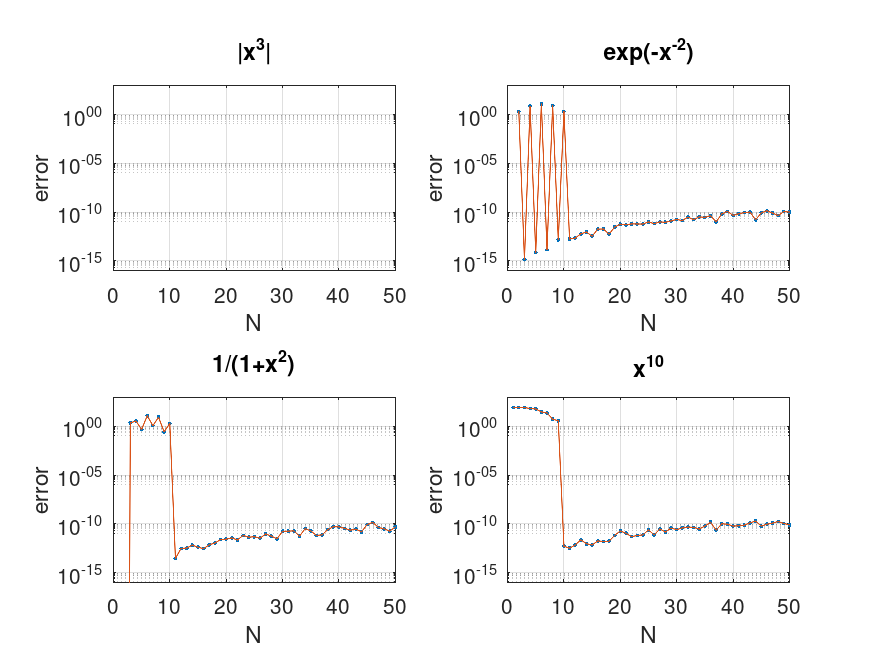
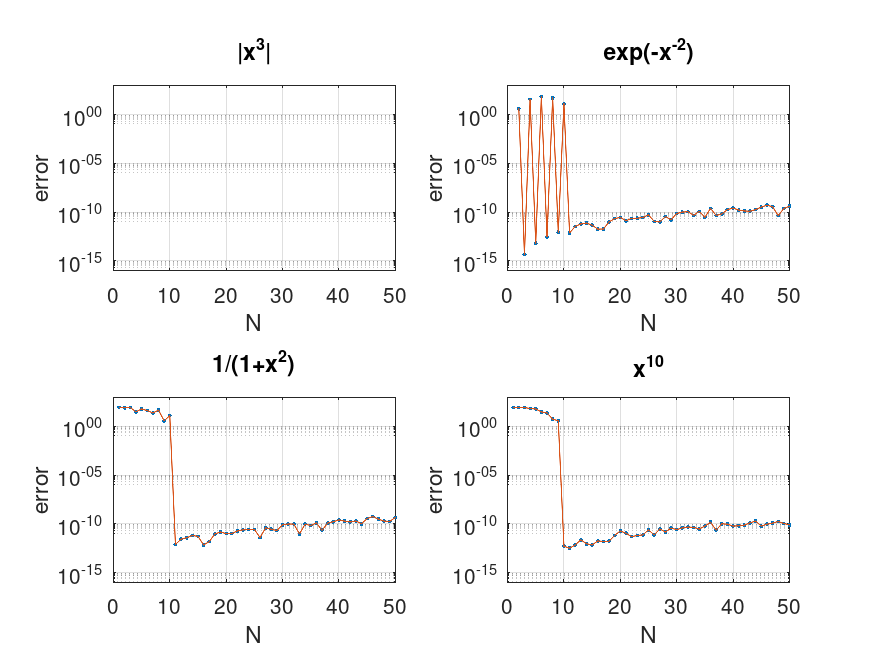
MATH6680: Fixed endpoints on `chebfft2`.

diff --git a/2023/spring/MATH6680_ScientificComputationII/Homework2/problem_7.m b/2023/spring/MATH6680_ScientificComputationII/Homework2/problem_7.m
@@ -9,11 +9,11 @@ for N = 1:Nmax;
   % v = @(x) abs(x).^3; % 3rd deriv in BV
   % [xx, vv, w2] = chebfft2(v(chebx));
   % E(1,N) = norm(w2 - D2 * v(chebx),inf);
-  
+
   % v = @(x) exp(-x.^(-2)); % C-infinity
   % [xx, vv, w2] = chebfft2(v(chebx));
   % E(2,N) = norm(w2 - D2 * v(chebx),inf);
-  
+
   % v = @(x) 1./(1+x.^2); % analytic in [-1,1]
   % [xx, vv, w2] = chebfft2(v(chebx));
   % E(3,N) = norm(w2 - D2 * v(chebx),inf);
@@ -22,8 +22,8 @@ for N = 1:Nmax;
   [xx, vv, w2] = chebfft2(v(chebx));
   vpp = 90*xx.^8; % polynomial
   % vpp = 10*xx.^9; % polynomial
-  E(2,N) = norm(w2(2:end-1) - (D2 * v(chebx))(2:end-1), inf);
-  E(3,N) = norm(w2(2:end-1) - vpp(2:end-1), inf);
+  E(2,N) = norm(w2 - (D2 * v(chebx)), inf);
+  E(3,N) = norm(w2 - vpp, inf);
   E(4,N) = norm(D2 * v(chebx) - vpp, inf);
 end
 

diff --git a/2023/spring/MATH6680_ScientificComputationII/Homework2/chebfft2.m b/2023/spring/MATH6680_ScientificComputationII/Homework2/chebfft2.m
@@ -1,7 +1,7 @@
 % CHEBFFT Chebyshev differentiation via FFT. Simple, not optimal.
 % If v is complex, delete "real" commands.
 function [x, v, w] = chebfft2(v)
-  N = length(v)-1; 
+  N = length(v)-1;
   if N==0
     x=0;
     w=0;
@@ -22,7 +22,8 @@ function [x, v, w] = chebfft2(v)
 
   % End points (Trefethen 8.7)
   %
-  w(1) = (2/3) * sum((ii'.^2 + ii'.^4).*U(ii+1))/N + .5*N*U(N+1);
+  w(1) = (1/3) * sum((ii'.^4 - ii'.^2).*U(ii+1))/N + .5*(N.^3 - N)*U(N+1);
+  w(N+1) = (1/3) * sum((ii'.^4 - ii'.^2).*U(ii+1) .* (-1).^(ii)')/N + .5*(N.^3 - N)*U(N+1)*(-1)^(N);
 
-  w(N+1) = (2/3) * sum((-1).^(ii+1)'.*(ii'.^2 + ii'.^4).*U(ii+1))/N + .5*(-1)^(N+1)*N*U(N+1);
+##  w(N+1) = (1/3) * sum((-1).^(ii+1)'.*(ii'.^4 - ii'.^2).*U(ii+1))/N + .5*(-1)^(N+1)*(N.^3 - N)*U(N+1);
 end
